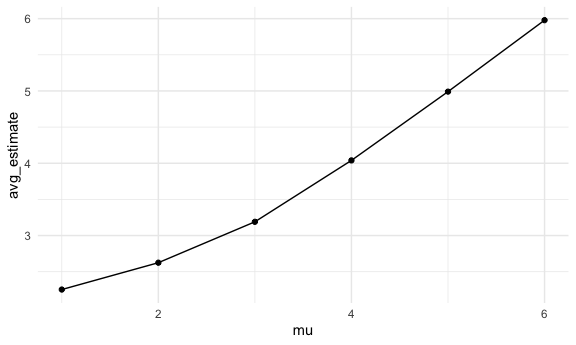
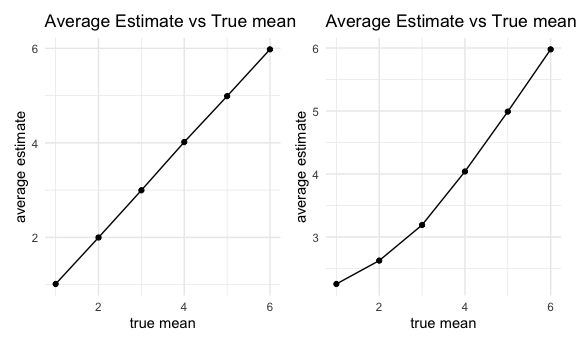
finish problem 3 and report

diff --git a/p8105_hw5_th2533.md b/p8105_hw5_th2533.md
@@ -461,33 +461,47 @@ Make a plot showing the average estimate of μ̂ on the y axis and the
 true value of μ on the x axis.
 
 ``` r
+all_plot=
 sim_results_mu %>% 
   group_by(mu) %>% 
   summarise(avg_estimate = mean(estimate)) %>% 
-  ggplot(aes(x = mu, y = avg_estimate))+
-  geom_point()+
-  geom_line() 
+  ggplot(aes(x = mu, y = avg_estimate)) +
+  geom_point() +
+  geom_line() +
+    labs(
+    x = "true mean",
+    y = "average estimate",
+    title = "Average Estimate vs True mean"
+  ) 
 ```
 
     ## `summarise()` ungrouping output (override with `.groups` argument)
-
-<img src="p8105_hw5_th2533_files/figure-gfm/unnamed-chunk-11-1.png" width="90%" />
 
 Make a second plot (or overlay on the first) the average estimate of μ̂
 only in samples for which the null was rejected on the y axis and the
 true value of μ on the x axis.
 
 ``` r
+subset_plot = 
 sim_results_mu %>% 
   filter(reject == "reject") %>% 
   group_by(mu) %>% 
   summarise(avg_estimate = mean(estimate)) %>% 
   ggplot(aes(x = mu, y = avg_estimate))+
-  geom_point()+
-  geom_line()
+  geom_point() +
+  geom_line() +
+  labs(
+    x = "true mean",
+    y = "average estimate",
+    title = "Average Estimate vs True mean in those null is rejected"
+  ) 
 ```
 
     ## `summarise()` ungrouping output (override with `.groups` argument)
+
+``` r
+all_plot + subset_plot 
+```
 
 <img src="p8105_hw5_th2533_files/figure-gfm/unnamed-chunk-12-1.png" width="90%" />
 
